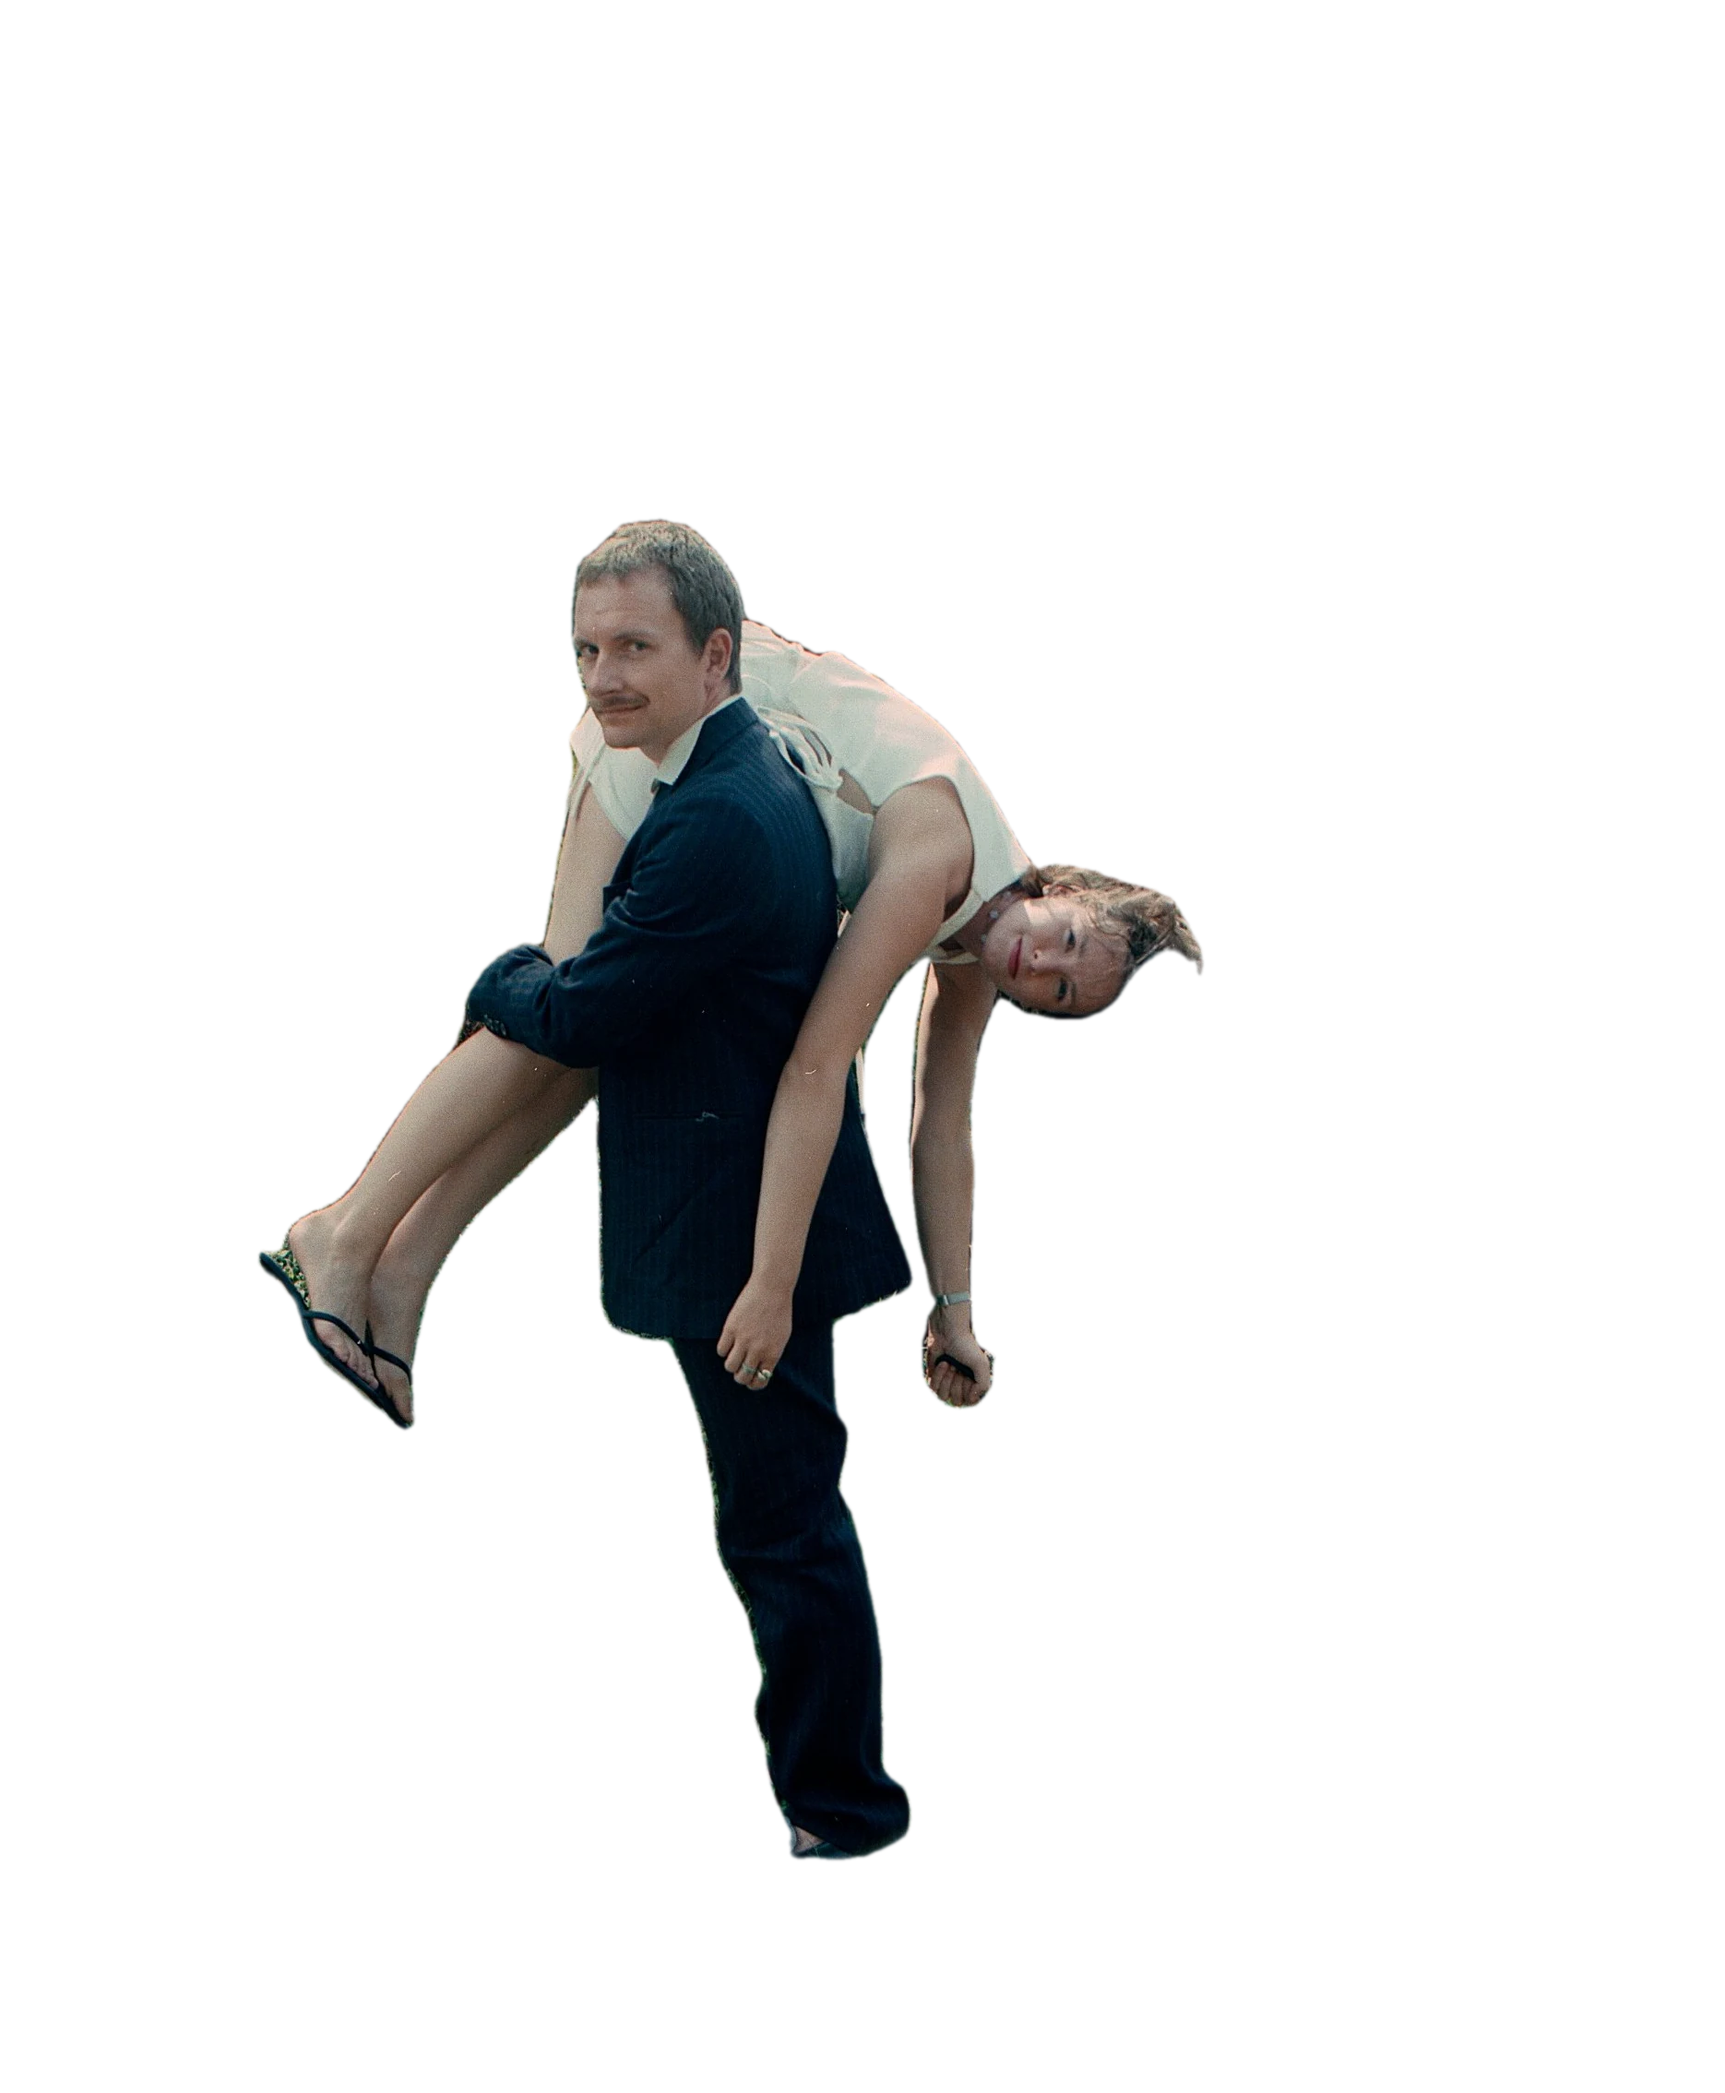
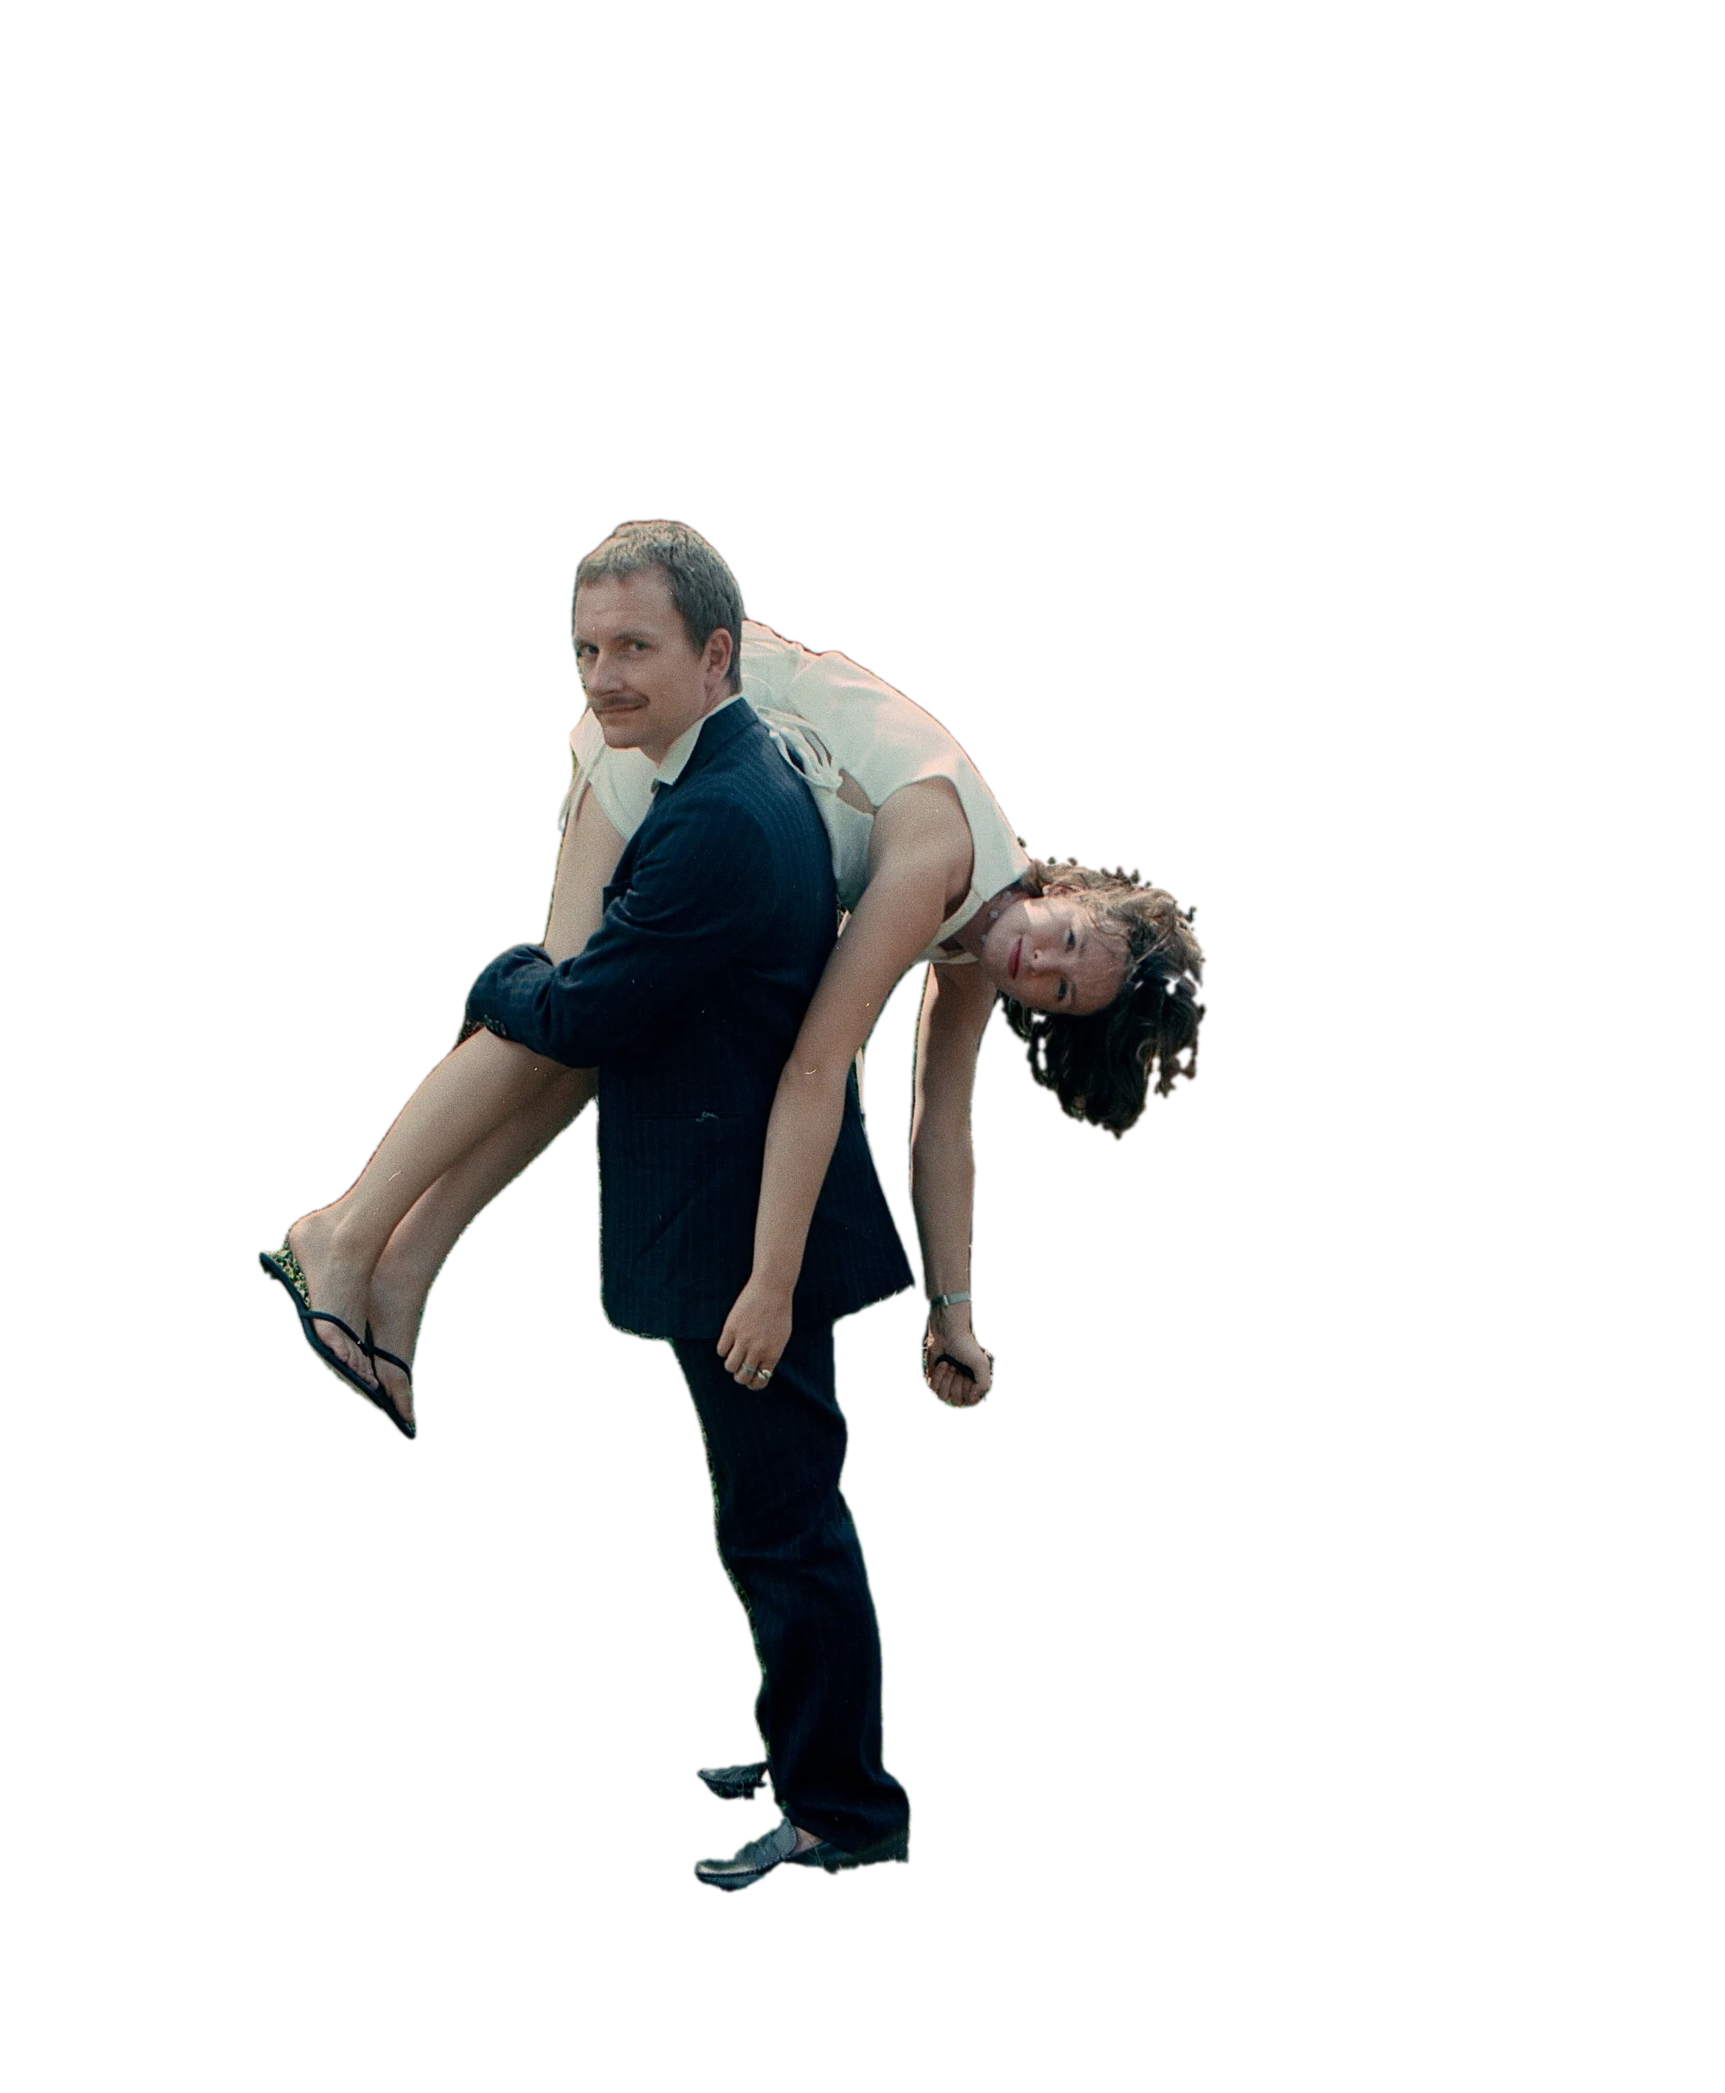
reso fix 2

Changed region(s): [[0.5583, 0.4011, 0.7134, 0.5553], [0.4032, 0.833, 0.5273, 0.9255], [0.5273, 0.5862, 0.5583, 0.617]]

diff --git a/index.html b/index.html
@@ -44,12 +44,10 @@
     .us { opacity: 0; }
     .us-we   { background-image: url("img/we.webp"); }
     .us-love { background-image: url("img/love.webp"); }
-    .us-mol  { background-image: url("img/mol.webp"); }
-    .us-married { background-image: url("img/married.webp"); }
+    .us-mol  { background-image: url("img/mol.webp"); background-position: center 52%; }
     main[data-show="we"]   .us-we,
     main[data-show="love"] .us-love,
-    main[data-show="mol"]  .us-mol,
-    main[data-show="married"] .us-married { opacity: 1; }
+    main[data-show="mol"]  .us-mol { opacity: 1; }
 
     .content {
       position: relative;
@@ -128,11 +126,10 @@
     <div class="layer us us-we" aria-hidden="true"></div>
     <div class="layer us us-love" aria-hidden="true"></div>
     <div class="layer us us-mol" aria-hidden="true"></div>
-    <div class="layer us us-married" aria-hidden="true"></div>
 
     <div class="content">
       <h1>
-        <span><button class="word" type="button" data-photo="we" aria-pressed="false">We</button> got <button class="word" type="button" data-photo="married" aria-pressed="false">married</button></span>
+        <span><button class="word" type="button" data-photo="we" aria-pressed="false">We</button> got married</span>
         <span>and would <button class="word" type="button" data-photo="love" aria-pressed="false">love</button> to</span>
         <span>celebrate with you</span>
         <span>in <button class="word" type="button" data-photo="mol" aria-pressed="false">Mol</button>, Belgium</span>
@@ -171,8 +168,9 @@
       words.forEach(w => w.setAttribute('aria-pressed', String(w.dataset.photo === name)));
     };
     words.forEach(w => {
-      w.addEventListener('mouseenter', () => show(w.dataset.photo));
-      w.addEventListener('mouseleave', () => show(''));
+      // hover only for a real mouse; on touch screens a tap (click) shows the photo
+      w.addEventListener('pointerenter', (e) => { if (e.pointerType === 'mouse') show(w.dataset.photo); });
+      w.addEventListener('pointerleave', (e) => { if (e.pointerType === 'mouse') show(''); });
       w.addEventListener('focus', () => show(w.dataset.photo));
       w.addEventListener('blur', () => show(''));
       w.addEventListener('click', (e) => { e.stopPropagation(); show(w.dataset.photo); });
@@ -180,7 +178,7 @@
     // On phones: tapping anywhere else goes back to the empty garden
     document.addEventListener('click', (e) => { if (!e.target.closest('form')) show(''); });
     // Preload the cut-outs so the first hover is instant
-    ['we', 'married', 'love', 'mol'].forEach(n => { const i = new Image(); i.src = 'img/' + n + '.webp'; });
+    ['we', 'love', 'mol'].forEach(n => { const i = new Image(); i.src = 'img/' + n + '.webp'; });
 
     // Invitation request: sends the three fields straight into our Google Form
     // (responses land in the linked Google Sheet). No email app needed.
